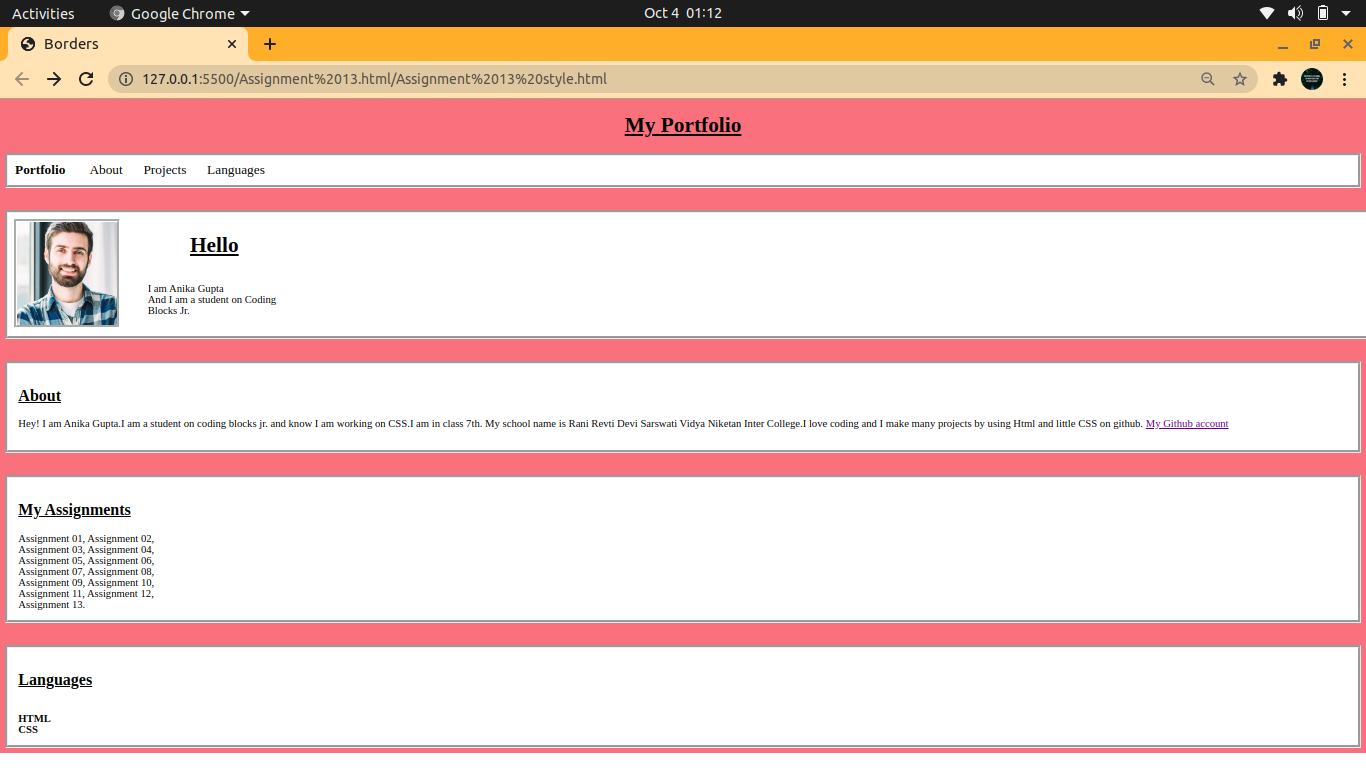
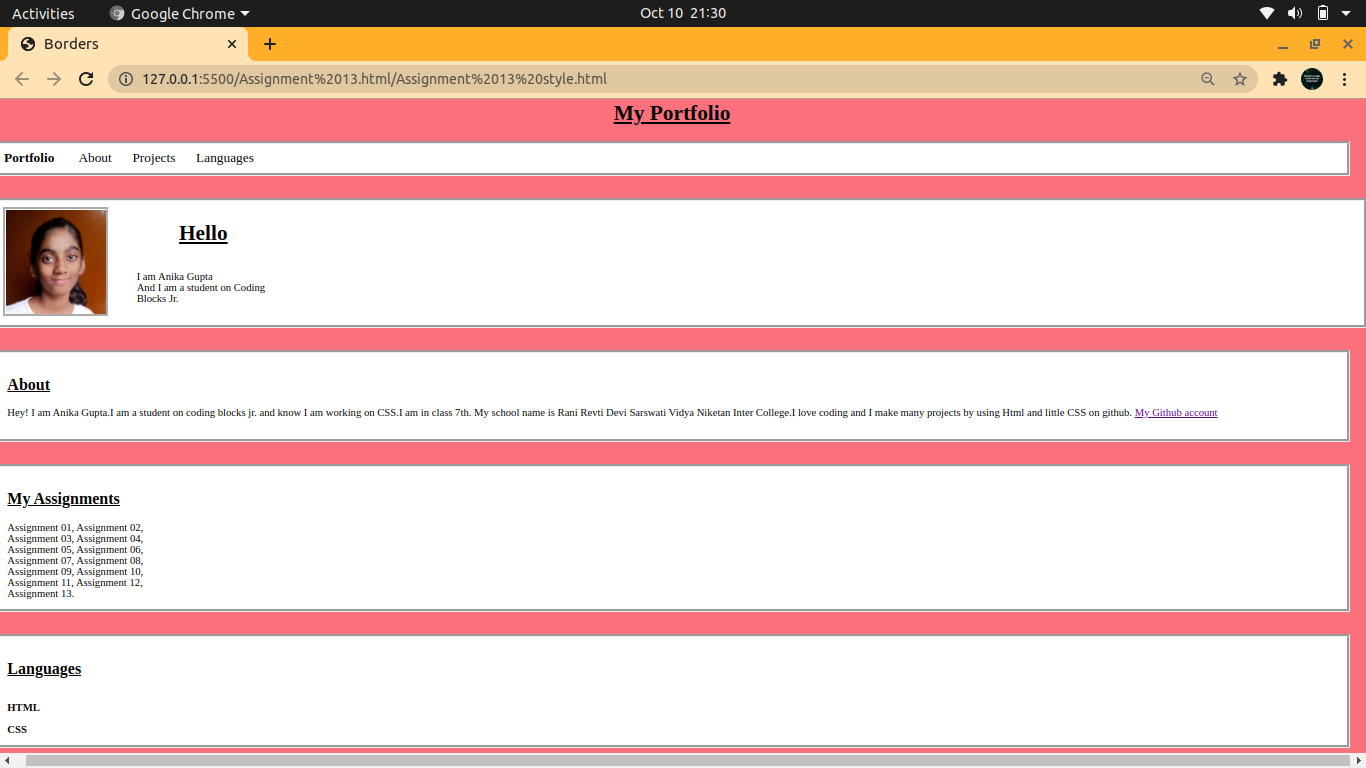
assignment 13

Changed region(s): [[0.0, 0.125, 1.0, 1.0], [0.4612, 0.0, 0.5227, 0.0312]]

diff --git a/Assignment 13.html/Assignment 13 style.html b/Assignment 13.html/Assignment 13 style.html
@@ -13,7 +13,7 @@
 
 <div class="info">
     <div class="image">
-        <img src="me.jpg" alt=""width="150">
+        <img src="Me.jpg" alt=""width="150">
     </div>
     <div class="infotext">
         <h1>Hello</h1>
@@ -38,6 +38,7 @@ Assignment 01, Assignment 02, <br> Assignment 03,  Assignment 04,<br>Assignment 
     <h2>Languages</h2>
     <br>
     <b>HTML</b>
+    <br>
     <br>
     <b>CSS</b>
 </div>
